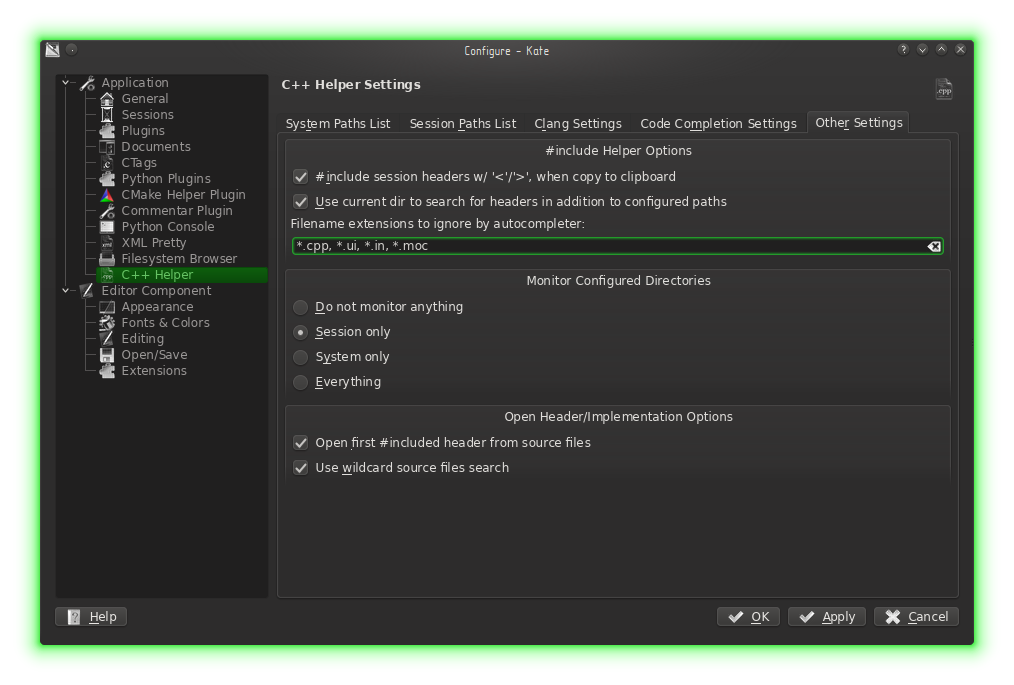
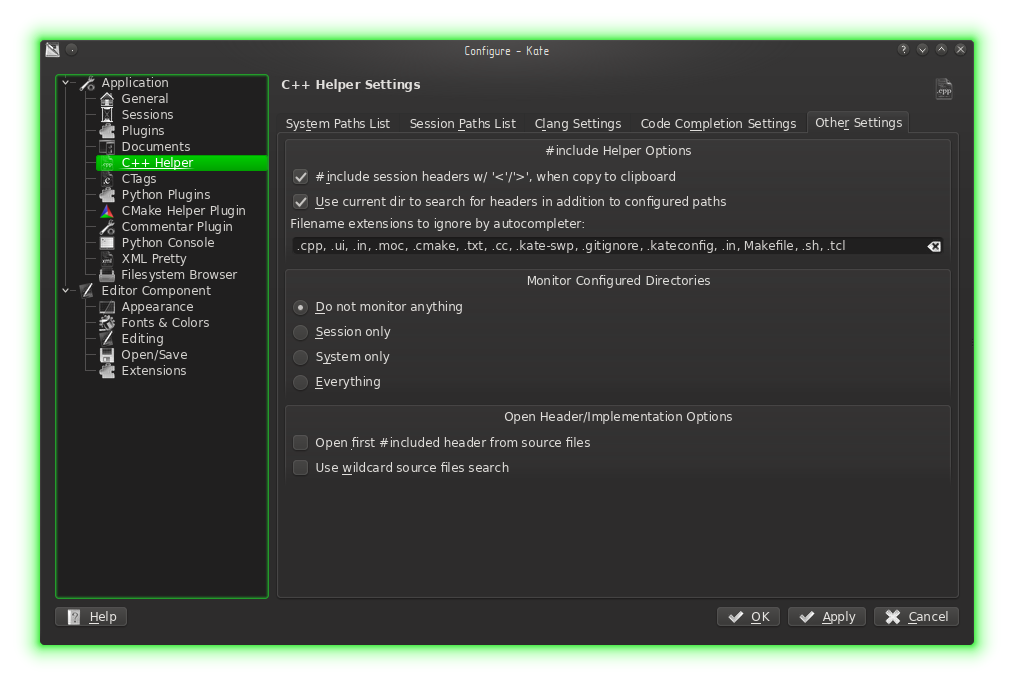
fix ignore list setting

diff --git a/kate-cpp-helper-plugin.md b/kate-cpp-helper-plugin.md
@@ -151,7 +151,8 @@ The plugin has action (default key is `Shift+F10`) to copy `#include` statement 
 into a clipboard, so you may switch a document and just paste it. The first option in a 
 _`#include` Helper Options_ group specify the format of that preprocessor directive.
 
-At the end of this group you may find a list of file wildcards to exclude from `#include` completion list.
+At the end of this group you may find a list of file extensions (not a wildcards!) to exclude from 
+`#include` completion list.
 
 ![Other Settings](assets/images/cpphelper/other-settings.png "Other Settings")
 
